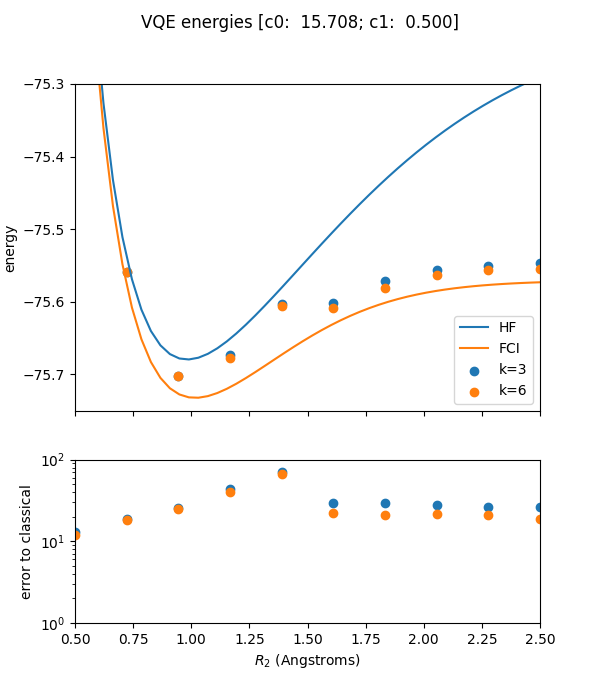
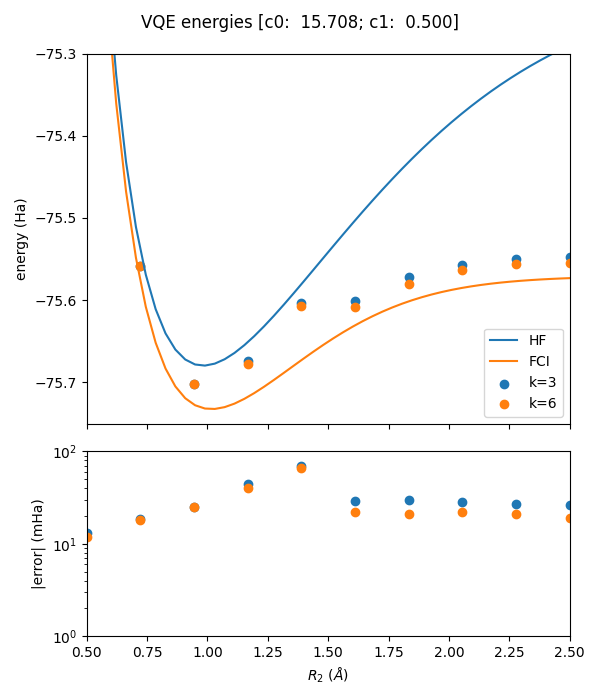
Fix axis labels in figures

diff --git a/entanglement_simulation/scripts/make_plots.py b/entanglement_simulation/scripts/make_plots.py
@@ -28,17 +28,17 @@ def plot_directory(experiment_dir: Path):
     fig_3b_subplots[0].plot(water_data.radii, water_data.classical_energies, label="FCI")
     fig_3b_subplots[0].scatter(k3_data.radii, k3_data.forged_vqe_energies, label="k=3")
     fig_3b_subplots[0].scatter(k6_data.radii, k6_data.forged_vqe_energies, label="k=6")
-    fig_3b_subplots[0].set_ylabel("energy")
+    fig_3b_subplots[0].set_ylabel("energy (Ha)")
     fig_3b_subplots[0].set_xlim((0.5, 2.5))
     fig_3b_subplots[0].set_ylim((-75.75, -75.30))
     fig_3b_subplots[0].legend()
     fig_3b_subplots[1].scatter(k3_data.radii, k3_data.error_to_classical, label="k=3")
     fig_3b_subplots[1].scatter(k6_data.radii, k6_data.error_to_classical, label="k=6")
-    fig_3b_subplots[1].set_xlabel("$R_2$ (Angstroms)")
-    fig_3b_subplots[1].set_ylabel("error to classical")
+    fig_3b_subplots[1].set_xlabel("$R_2$ ($\\AA$)")
+    fig_3b_subplots[1].set_ylabel("|error| (mHa)")
     fig_3b_subplots[1].set_ylim((1., 100))
     fig_3b_subplots[1].set_yscale("log")
-    # fig_3b_subplots[1].legend()
+    fig_3b.tight_layout()
 
     fig_4b = plt.figure(1, figsize=(6, 4))
     fig_4b.suptitle(
@@ -48,17 +48,18 @@ def plot_directory(experiment_dir: Path):
     fig_4b_subplots.plot(k3_data.radii, k3_data.schmidts_1, marker="o", label="$\lambda_1$")
     fig_4b_subplots.plot(k3_data.radii, k3_data.schmidts_larger, marker="o", label="$\lambda_{>}$")
     fig_4b_subplots.plot(k3_data.radii, k3_data.schmidts_smaller, marker="o", label="$\lambda_{<}$")
-    fig_4b_subplots.set_xlabel("radius of H1")
+    fig_4b_subplots.set_xlabel("$R_2$ ($\\AA$)")
     fig_4b_subplots.set_ylabel("Schmidt coefficients")
     fig_4b_subplots.set_xlim((0.5, 2.5))
     fig_4b_subplots.set_ylim((1e-3, 2))
     fig_4b_subplots.set_yscale("log")
     fig_4b_subplots.legend()
+    fig_4b.tight_layout()
     return {"fig_3b": fig_3b, "fig_4b": fig_4b}
 
 
 if __name__ == "__main__":
-    experiment_dir = EXPERIMENT_DIR / "reduced_orbitals_0_3_k3"
+    experiment_dir = EXPERIMENT_DIR / "case_b_reduced_orbitals_0_3_k3"
     figures = plot_directory(experiment_dir)
     figures["fig_3b"].show()
     figures["fig_4b"].show()
